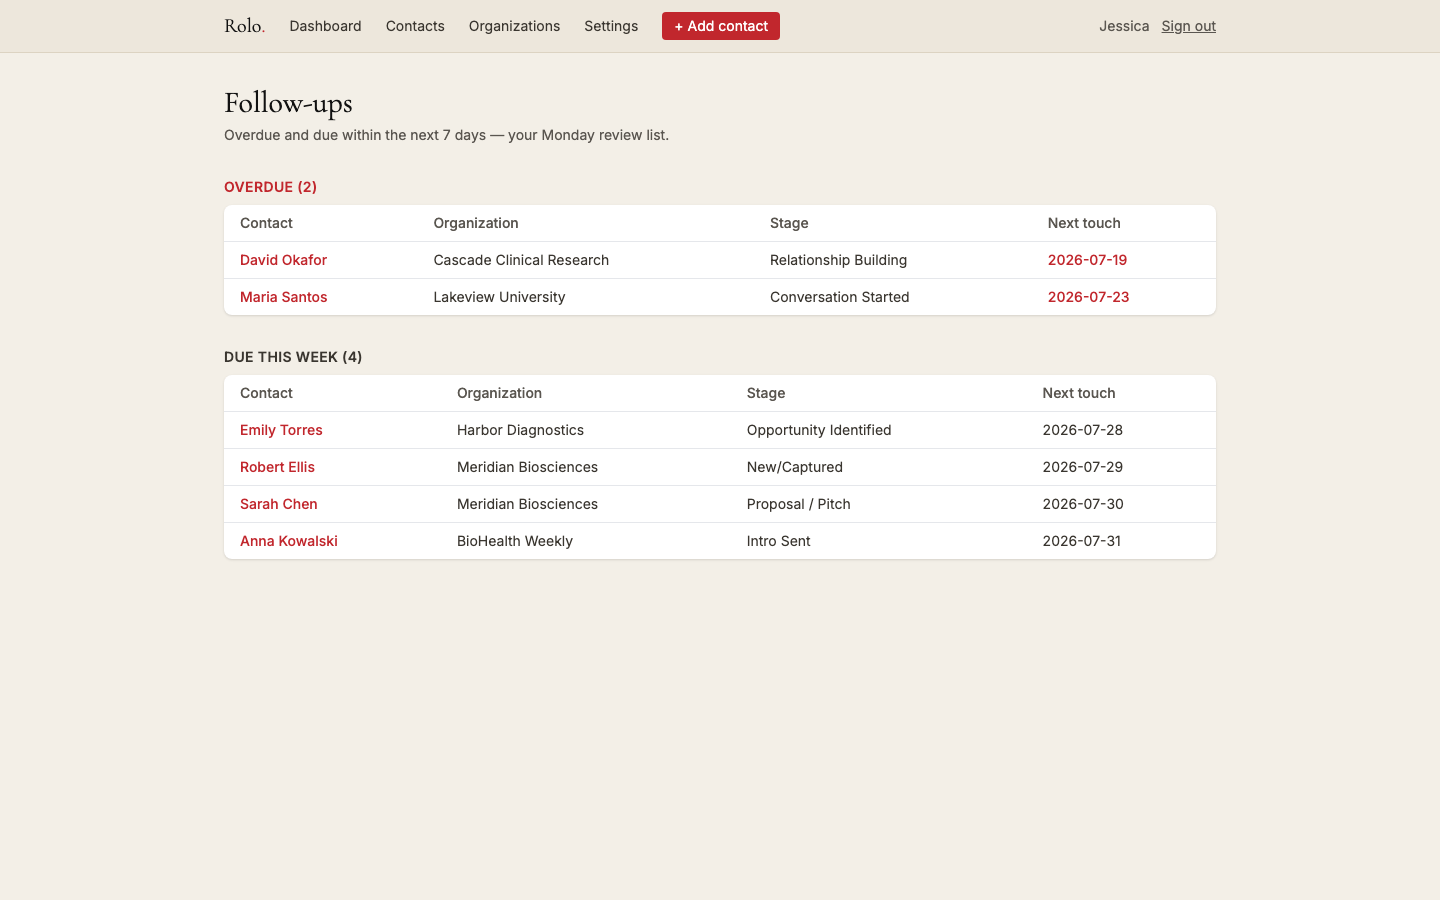
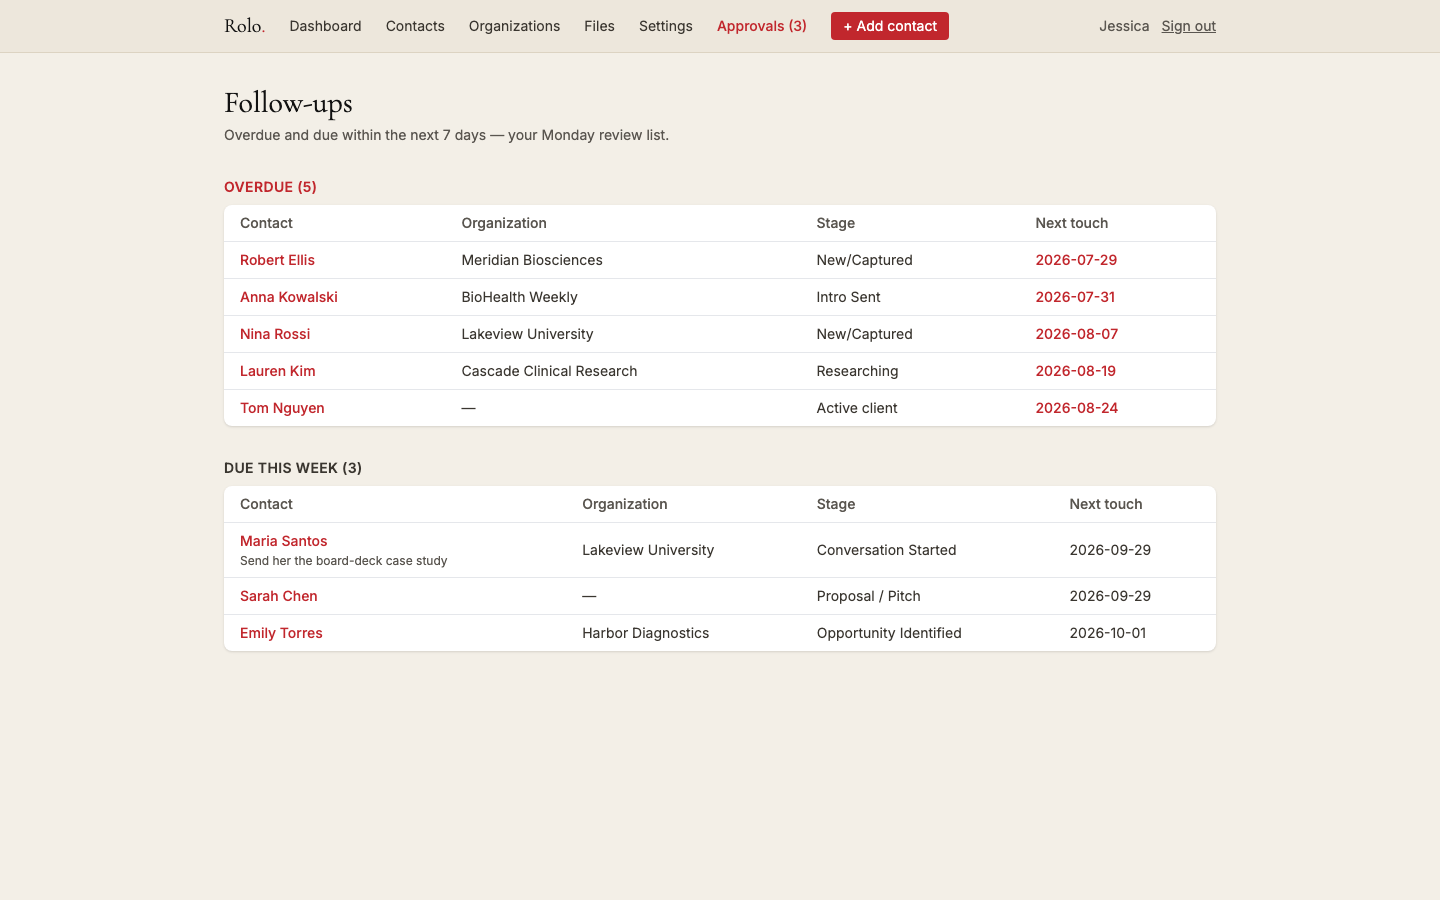
README: lead with the MCP integration; refresh screenshots
New Approvals screenshot showing AI-proposed changes over MCP awaiting
human review (live diff, consequence line); dashboard screenshot
refreshed to show follow-up notes in the queue. The agent integration
section moves above the feature list and the intro names MCP up front.

diff --git a/README.md b/README.md
@@ -9,6 +9,9 @@ track of who to talk to next.*
 
 Built with deliberately boring technology: PHP 8.4, MariaDB, and server-rendered
 HTML — no build pipeline, no SPA, deployable to shared hosting by copying files.
+And one deliberately modern piece: the CRM is also an **MCP server** (Model
+Context Protocol), so AI assistants like Claude and Superhuman connect to it
+directly — with every AI-proposed change gated behind human approval.
 
 > **Note:** this is a public snapshot of a private production repository.
 > Internal docs, deploy scripts, and history are excluded, and the seed data
@@ -17,7 +20,14 @@ HTML — no build pipeline, no SPA, deployable to shared hosting by copying file
 
 ## Screenshots
 
-**Dashboard** — the Monday review: overdue and due-this-week follow-ups.
+**Approvals** — AI agents propose changes over MCP; a human reviews a live
+before/after diff with a rules-engine consequence line, then approves or
+rejects. Nothing an agent does touches the CRM without this step.
+
+![Approvals](screenshots/approvals.png)
+
+**Dashboard** — the Monday review: overdue and due-this-week follow-ups, each
+with its "what needs doing" note.
 
 ![Dashboard](screenshots/dashboard.png)
 
@@ -33,6 +43,34 @@ HTML — no build pipeline, no SPA, deployable to shared hosting by copying file
 **Organizations** — grouped view with per-org contact counts.
 
 ![Organizations](screenshots/organizations.png)
+
+## AI agent integration over MCP
+
+The CRM doubles as a tool server for AI agents (the owner's assistant connects
+from Claude and Superhuman), with one iron rule enforced at the API layer, not
+in agent instructions: **reads are live, writes never touch the CRM directly.**
+
+- **REST API** (`/api/v1/*`): bearer-token auth with separate read-only and
+  read-write tokens (constant-time comparison), cursor pagination, machine plus
+  human-readable errors, a 120 req/min per-token rate limit, and an audit table
+  recording every request.
+- **MCP endpoint** (`/mcp`): the same tools spoken over the Model Context
+  Protocol (streamable HTTP, stateless) so MCP clients plug in directly:
+  13 tools with JSON schemas, read tools marked `readOnlyHint`. The protocol
+  core is a pure, unit-tested class; clients that cannot send an Authorization
+  header (claude.ai custom connectors) may present the token as a URL secret,
+  which the audit trail redacts.
+- **Approval-gated writes**: every write proposes; a human approves. Proposals
+  are validated immediately (bad payloads never reach the queue), deduped with
+  idempotency keys, and reviewed on an Approvals page that renders each change
+  in plain English: a live before/after diff against current data, and a
+  consequence line ("reschedules the next follow-up to …") computed with the
+  same rules engine that will apply it. Approved changes are attributed to the
+  approver; the proposing token stays on the audit trail.
+- **Schedule-safe by design**: agent-logged activities default to NOT counting
+  as a personal touch, so bulk campaign logging can't clear the human
+  follow-up queue, and a backdated touch approved out of order records history
+  without dragging the schedule backward.
 
 ## What it does
 
@@ -70,34 +108,6 @@ HTML — no build pipeline, no SPA, deployable to shared hosting by copying file
 - **Two-person collaboration** — `created_by` / `updated_by` trails are stored
   *and shown* ("added by Jessica · last updated by Colin"), so both users can
   always see who touched what.
-
-## AI agent integration
-
-The CRM doubles as a tool server for AI agents (the owner's assistant connects
-from Claude and Superhuman), with one iron rule enforced at the API layer, not
-in agent instructions: **reads are live, writes never touch the CRM directly.**
-
-- **REST API** (`/api/v1/*`): bearer-token auth with separate read-only and
-  read-write tokens (constant-time comparison), cursor pagination, machine plus
-  human-readable errors, a 120 req/min per-token rate limit, and an audit table
-  recording every request.
-- **MCP endpoint** (`/mcp`): the same tools spoken over the Model Context
-  Protocol (streamable HTTP, stateless) so MCP clients plug in directly:
-  13 tools with JSON schemas, read tools marked `readOnlyHint`. The protocol
-  core is a pure, unit-tested class; clients that cannot send an Authorization
-  header (claude.ai custom connectors) may present the token as a URL secret,
-  which the audit trail redacts.
-- **Approval-gated writes**: every write proposes; a human approves. Proposals
-  are validated immediately (bad payloads never reach the queue), deduped with
-  idempotency keys, and reviewed on an Approvals page that renders each change
-  in plain English: a live before/after diff against current data, and a
-  consequence line ("reschedules the next follow-up to …") computed with the
-  same rules engine that will apply it. Approved changes are attributed to the
-  approver; the proposing token stays on the audit trail.
-- **Schedule-safe by design**: agent-logged activities default to NOT counting
-  as a personal touch, so bulk campaign logging can't clear the human
-  follow-up queue, and a backdated touch approved out of order records history
-  without dragging the schedule backward.
 
 ## Architecture
 
